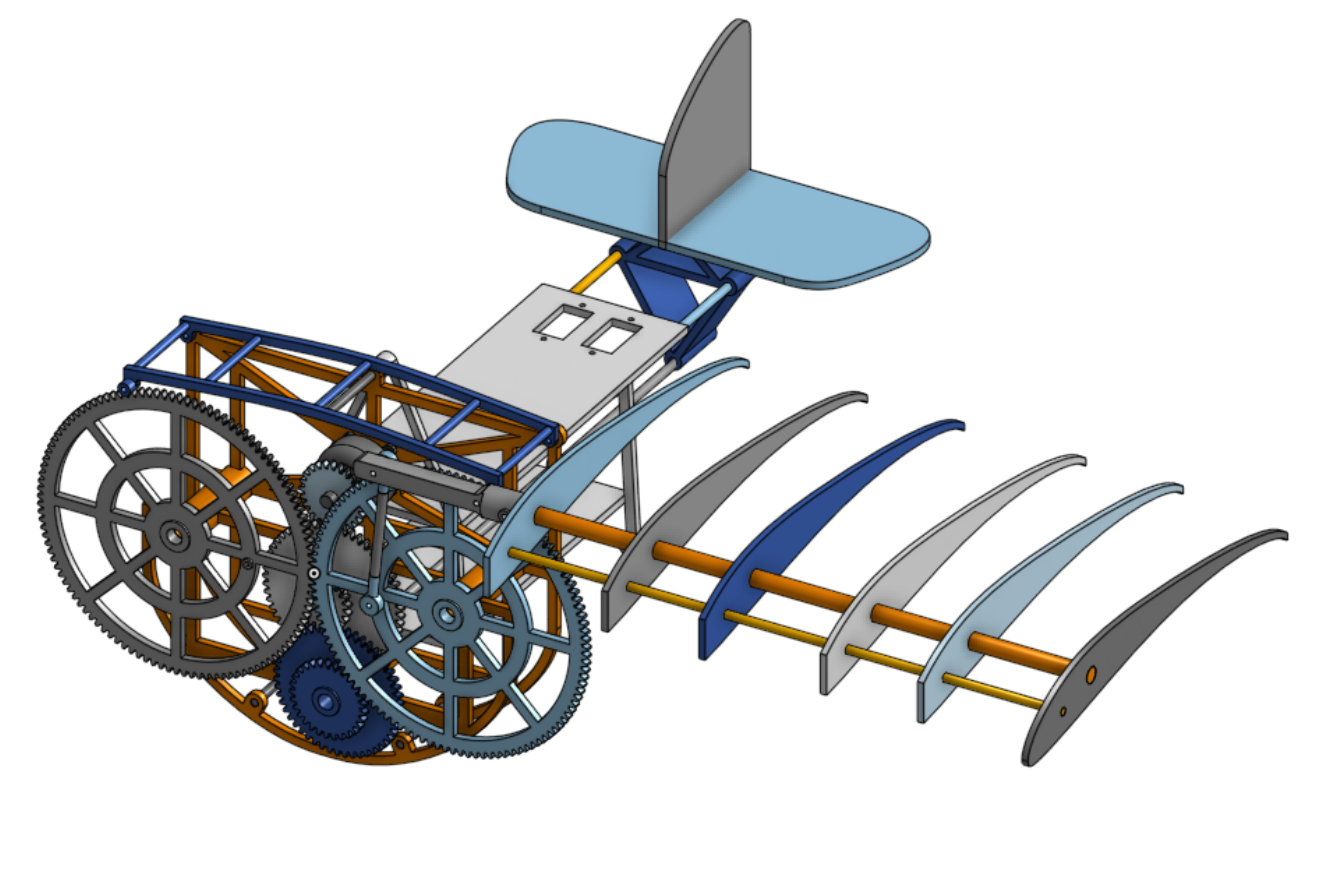
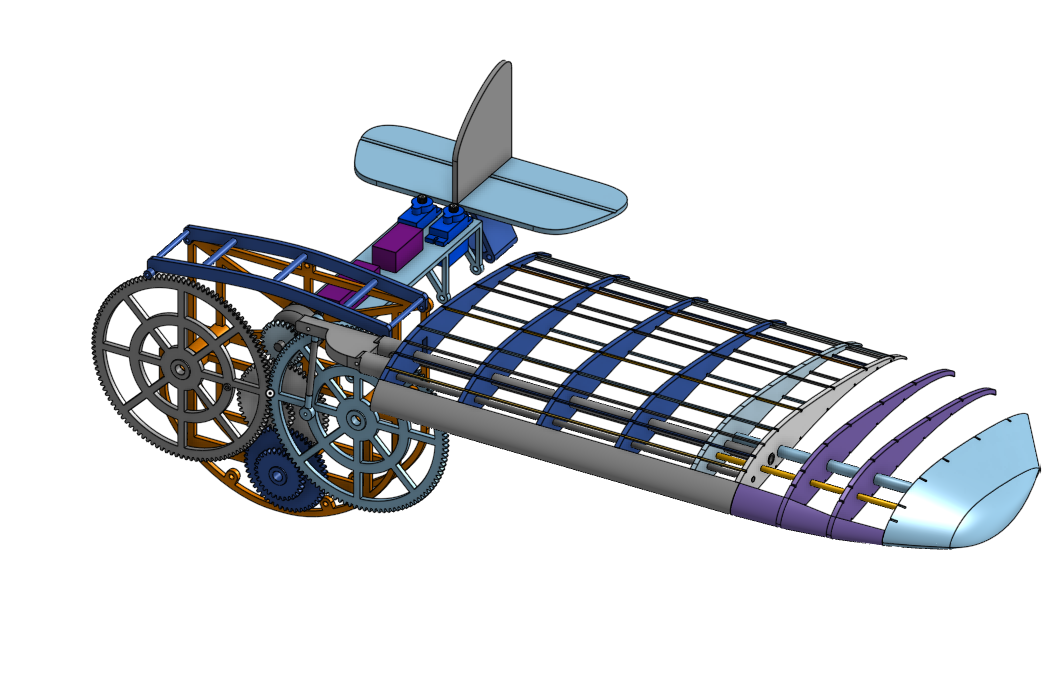
update the profile pic and bom

diff --git a/Readme.md b/Readme.md
@@ -10,7 +10,7 @@ The project will be set up in phases.
 Phase 1 
 This is the prototyping phase of the wing movement mechanism. I will be designing a body that takes the rotating motion from a motor to move the wings up and down. I will be looking for reliability, strength, and efficiency.
 
-Phase 2
+Phase 2 
 
 Here I will be designing the wing. I need to make it lightweight. I will also be testing it with the gear mechanism and measuring how much lift it produces so I can determine my design constraints for the tail.
 Phase 3 – Adding the Tail and Other Electronics